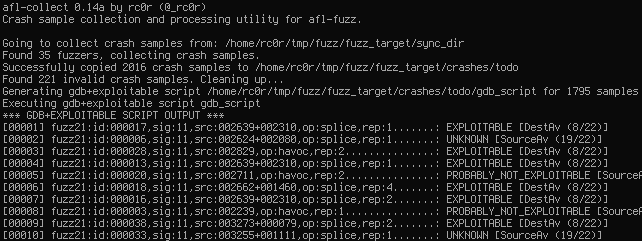
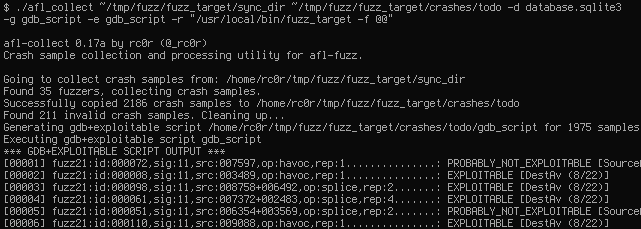
Basic SQLite3 database support added

Changed region(s): [[0.0, 0.1528, 1.0, 1.0], [0.0, 0.0, 0.9672, 0.1223]]

diff --git a/db_connectors/con_sqlite.py b/db_connectors/con_sqlite.py
@@ -1,0 +1,74 @@
+import os
+import sqlite3 as lite
+
+
+class sqliteConnector:
+
+    def __init__(self, database_path):
+        self.database_path = database_path
+
+    def init_database(self):
+        """
+        Prepares a sqlite3 database for data set storage. If the file specified in database_path doesn't exist a new
+        sqlite3 database with table 'Data' will be created. Otherwise the existing database is used to store additional
+        data sets.
+
+        :return: None
+        """
+        table_data_exists = False
+        if os.path.isfile(self.database_path):
+            print("Using existing database to store results.")
+        try:
+            dbcon = lite.connect(self.database_path)
+            dbcur = dbcon.cursor()
+            dbcur.execute("SELECT Count(*) FROM Data")
+            print("%s entries in this database so far." % str(dbcur.fetchone()[0]))
+            table_data_exists = True
+        except lite.OperationalError:
+            print("[W] Table \'Data\' not found in database!")
+
+        if not table_data_exists:   # If the database doesn't exist, we'll create it.
+            print("Creating new table \'Data\' in database \'%s\' to store data!" % self.database_path)
+            dbcon = lite.connect(self.database_path)
+            dbcur = dbcon.cursor()
+            dbcur.execute('CREATE TABLE Data (ID INTEGER PRIMARY KEY ASC, Sample text, Classification text, \
+Classification_Description text)')
+
+    def dataset_exists(self, dataset):
+        """
+        Check if dataset was already submitted into database.
+
+        :param dataset: A dataset dict consisting of sample filename, sample classification and classification
+                        description.
+        :return:        True if the data set is already present in database, False otherwise.
+        """
+        # The nice thing about using the SQL DB is that I can just have it make
+        # a query to make a duplicate check. This can likely be done better but
+        # it's "good enough" for now.
+        output = False
+        con = lite.connect(self.database_path)
+        cur = con.cursor()
+
+        if not output:
+            # check sample
+            qstring = "SELECT * FROM Data WHERE Sample IS ?"
+            cur.execute(qstring, (dataset[0],))
+            if cur.fetchone() is not None:  # We should only have to pull one.
+                output = True
+
+        return output
+
+    def insert_dataset(self, dataset):
+        """
+        Insert a dataset into the database.
+
+        :param dataset: A dataset dict consisting of sample filename, sample classification and classification
+                        description.
+        :return:        None
+        """
+        # Just a simple function to write the results to the database.
+        con = lite.connect(self.database_path)
+        qstring = "INSERT INTO Data VALUES(NULL, ?, ?, ?)"
+        with con:
+            cur = con.cursor()
+            cur.execute(qstring, (dataset[0], dataset[1], dataset[2]))

diff --git a/afl_utils/afl_collect.py b/afl_utils/afl_collect.py
@@ -8,6 +8,7 @@ import sys
 
 import afl_utils
 from afl_utils import afl_vcrash
+from db_connectors import con_sqlite
 
 
 # afl-collect global settings
@@ -158,7 +159,7 @@ def execute_gdb_script(out_dir, script_filename, num_samples):
     print("*** GDB+EXPLOITABLE SCRIPT OUTPUT ***")
     for g in range(0, len(grepped_output)-2, 3):
         print("[%05d] %s: %s [%s]" % (i, grepped_output[g].ljust(64, '.'), grepped_output[g+2], grepped_output[g+1]))
-        classification_data.append([grepped_output[g], grepped_output[g+2]])
+        classification_data.append([grepped_output[g], grepped_output[g+2], grepped_output[g+1]])
         i += 1
 
     if i < num_samples:
@@ -175,13 +176,15 @@ def main(argv):
 
     parser = argparse.ArgumentParser(description="afl_collect copies all crash sample files from an afl sync dir used \
 by multiple fuzzers when fuzzing in parallel into a single location providing easy access for further crash analysis.",
-                                     usage="afl_collect.py [-e GDB_EXPL_SCRIPT_FILE] [-f LIST_FILENAME]\n \
+                                     usage="afl_collect.py [-d DATABASE] [-e GDB_EXPL_SCRIPT_FILE] [-f LIST_FILENAME]\n \
 [-g GDB_SCRIPT_FILE] [-h] [-r] sync_dir collection_dir target_cmd")
 
     parser.add_argument("sync_dir", help="afl synchronisation directory crash samples  will be collected from.")
     parser.add_argument("collection_dir",
                         help="Output directory that will hold a copy of all crash samples and other generated files. \
 Existing files in the collection directory will be overwritten!")
+    parser.add_argument("-d", "--database", dest="database_file", help="Submit classification data into a sqlite3 \
+database.", default=None)
     parser.add_argument("-e", "--execute-gdb-script", dest="gdb_expl_script_file",
                         help="Execute a gdb+exploitable script after crash sample collection for crash classification.",
                         default=None)
@@ -249,6 +252,16 @@ Use '@@' to specify crash sample input file position (see afl-fuzz usage).")
         """
         TODO: Make use of classification data (database submission, crash sample reduction, ...)
         """
+
+        if args.database_file:
+            lite_db = con_sqlite.sqliteConnector(args.database_file)
+
+            lite_db.init_database()
+
+            for dataset in classification_data:
+                if not lite_db.dataset_exists(dataset):
+                    lite_db.insert_dataset(dataset)
+
 
 if __name__ == "__main__":
     main(sys.argv)

diff --git a/db_connectors/__init__.py b/db_connectors/__init__.py
@@ -1,2 +1,1 @@
 __author__ = 'rc0r (@_rc0r)'
-__version__ = "0.17a"

diff --git a/README.md b/README.md
@@ -39,7 +39,8 @@ Release | Description
 ### Feature Ideas / ToDo
 
 - [ ] "`stdin`-support" (see Problems/Bugs); We do get crash samples for "`stdin`"-mode, right?!
-- [ ] submit classification data into some sort of database
+- [x] submit classification data into some sort of database
+    - [x] basic sqlite3 database support added
 - [ ] auto clean-up of uninteresting crashes
     - [ ] by exploitable classification
     - [ ] through some means of deduplicating crash samples (might be clever to incorporate this into
